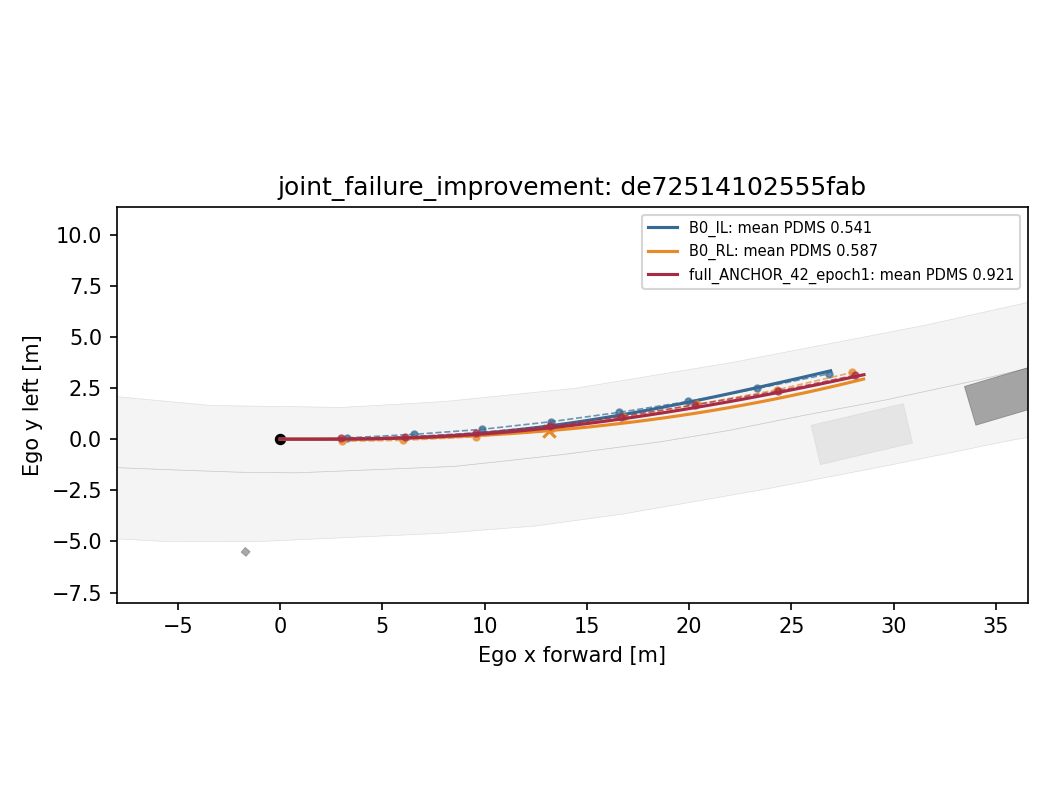
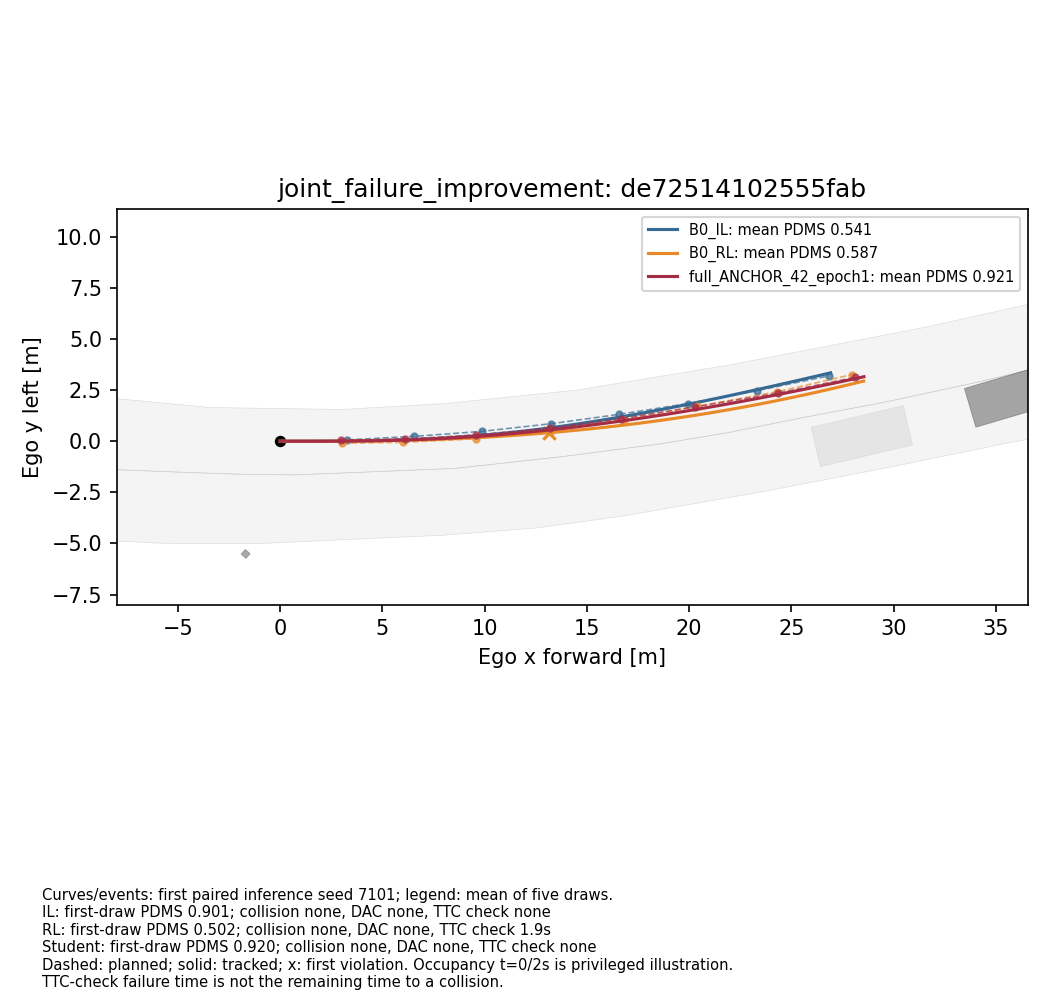
Expose actual event times in case figures and retain first GRPO harm decision

diff --git a/scripts/process_improvement/plot_cases.py b/scripts/process_improvement/plot_cases.py
@@ -3,6 +3,7 @@ import sys
 from pathlib import Path
 sys.path.insert(0,str(Path(__file__).resolve().parents[2]))
 import argparse
+import time
 import numpy as np
 from scripts.process_improvement.common import *
 from scripts.process_improvement.analyze import predictions
@@ -23,7 +24,8 @@ def main():
            ('teacher_success_student_failure',(rm>=.8)&(nm<=.01),nm-rm,False),
            ('joint_failure_improvement',(im<=.6)&(rm<=.6)&(nm>np.maximum(im,rm)),nm-np.maximum(im,rm),True)]
     directory=REPORTS/'figures/cases'/a.method;directory.mkdir(parents=True,exist_ok=True)
-    records=[];used=set();scorer=Scoring()
+    records=[];used=set();scorer=Scoring();began=time.time()
+    budget=dict(physical_scores=0,logical_scores=0,reference_simulations=0,cpu_scoring_seconds=0.)
     for rule,mask,value,descending in rules:
         possible=[i for i in range(len(rows)) if mask[i] and i not in used]
         if not possible:continue
@@ -31,7 +33,7 @@ def main():
         used.add(i);row=rows[i];cache=load_cache(row['metric_cache_path']);ego=cache.ego_state.rear_axle
         rotation=np.array([[np.cos(ego.heading),-np.sin(ego.heading)],[np.sin(ego.heading),np.cos(ego.heading)]])
         def local(points):return (np.asarray(points)-np.array([ego.x,ego.y]))@rotation
-        fig,ax=plt.subplots(figsize=(7,5.4))
+        fig,ax=plt.subplots(figsize=(7,6.7))
         def polygon(geometry,**kwargs):
             if hasattr(geometry,'geoms'):
                 for part in geometry.geoms:polygon(part,**kwargs)
@@ -46,7 +48,12 @@ def main():
             if name in cases:continue
             with np.load(ROOT/'evaluation'/a.split/name/'scenes'/f"{row['token']}.npz") as data:
                 trajectory=data['trajectories'][0];seed=int(data['seeds'][0]);mean=float(data['scores'][:,-1].mean())
-            details=scorer.batch(cache,trajectory[None]);simulated=details['simulated_states'][0]
+                original_scores=data['scores'][0].copy()
+            tick=time.process_time();details=scorer.batch(cache,trajectory[None]);simulated=details['simulated_states'][0]
+            budget['cpu_scoring_seconds']+=time.process_time()-tick
+            for field in ['physical_scores','logical_scores','reference_simulations']:budget[field]+=1
+            if np.max(np.abs(details['scores'][0]-original_scores))>1e-6:
+                raise ValueError('Case re-scoring changed a completed evaluation label')
             xy=local(simulated[:,:2]);all_xy.append(xy)
             ax.plot(trajectory[:,0],trajectory[:,1],'o--',ms=3,lw=.8,color=color,alpha=.7)
             ax.plot(xy[:,0],xy[:,1],color=color,label=f'{name}: mean PDMS {mean:.3f}')
@@ -60,11 +67,29 @@ def main():
                              prediction_sha256=sha(ROOT/'evaluation'/a.split/name/'scenes'/f"{row['token']}.npz"))
         combined=np.concatenate(all_xy);lo=combined.min(0)-8;hi=combined.max(0)+8
         ax.set(xlim=(lo[0],hi[0]),ylim=(lo[1],hi[1]),xlabel='Ego x forward [m]',ylabel='Ego y left [m]',title=f'{rule}: {row["token"]}')
-        ax.scatter(0,0,color='black',s=20);ax.set_aspect('equal',adjustable='box');ax.legend(fontsize=7);fig.tight_layout()
+        ax.scatter(0,0,color='black',s=20);ax.set_aspect('equal',adjustable='box');ax.legend(fontsize=7)
+        captions=[f'Curves/events: first paired inference seed {seed}; legend: mean of five draws.']
+        for name,case in cases.items():
+            label='IL' if name=='B0_IL' else 'RL' if name=='B0_RL' else 'Student'
+            events=case['events']
+            times=['none' if events[key] is None else f'{events[key]:.1f}s'
+                   for key in ['first_collision_s','first_dac_s','first_ttc_check_failure_s']]
+            captions.append(f"{label}: first-draw PDMS {case['first_seed_PDMS']:.3f}; collision {times[0]}, DAC {times[1]}, TTC check {times[2]}")
+        captions+=['Dashed: planned; solid: tracked; x: first violation. Occupancy t=0/2s is privileged illustration.',
+                   'TTC-check failure time is not the remaining time to a collision.']
+        fig.text(.04,.015,'\n'.join(captions),fontsize=7.1,va='bottom')
+        fig.tight_layout(rect=(0,.19,1,1))
         fig.savefig(directory/f'{rule}.png',dpi=150);plt.close(fig)
         records.append(dict(rule=rule,token=row['token'],log=row['log_name'],cases=cases,
+                            generator_sha256=sha(__file__),protocol_sha256=sha(ROOT/'protocol.yaml'),
                             interpretation='Dashed planned trajectory; solid tracked simulation; x marks first violation. TTC check failure is not remaining collision time. Occupancy at t=0 and t=2s is privileged illustration only.'))
     write(REPORTS/'tables'/f'case_provenance_{a.split}_{a.method}.json',records)
+    # Every regeneration is a real extra CPU scoring cost, even when the
+    # resulting presentation replaces an earlier PNG. Never overwrite receipts.
+    write(ROOT/'diagnostics'/f'case_figures_{a.split}_{a.method}'/str(time.time_ns())/'results.json',
+          dict(status='COMPLETE',budget=budget,seconds=time.time()-began,
+               generator_sha256=sha(__file__),cases=len(records),GPU_work=False,
+               interpretation='Presentation re-scoring only; completed labels checked to 1e-6; not new independent evaluation samples'))
     print('REAL_CASE_FIGURES',a.method,len(records),flush=True)
 
 

diff --git a/reports/recogdrive_process_improvement_20261020/06_expanded_training.md b/reports/recogdrive_process_improvement_20261020/06_expanded_training.md
@@ -85,3 +85,5 @@ warm 起点两个学习率均已完成 812 更新/207,872 次物理评分和 5,3
 IL 初始化 seed42 实际完成977更新、31,264场景曝光、250,112候选评分；完整 dev 1,696×5 的 PDMS=0.931694。相对 IL，G=0.016507，95% CI [0.004910,0.028740]，M_plus=0.026127，M_minus=0.009619 [0.005633,0.015142]；相对T0，G=-0.017933 [-0.024853,-0.012743]。NC变化=-0.000708 [-0.002623,0.000450]，不满足0.001安全非劣标准；稳定高分场景均值变零的点估计为0，但区间上界0.003402，不能宣称无风险。
 
 这是尚在运行的三训练种子对照中的第一条、第一端点，不用于挑选模型或停止；cal-confirm伤害边界检查独立执行。没有将其与曝光量不同的OPD端点作同预算胜负判断。结构化数值及实际八rank成本见 `tables/R1_IL_seed42_step977_interim.json`。
+
+该首端点的独立 cal-confirm 伤害审计为 CONTINUE：G=0.007217，95% CI [-0.009575,0.019750]；NC/DAC/TTC变化均未触发预注册伤害边界。区间跨零，不能据此确认校准集正收益。实际审计记录见 `tables/R1_IL_seed42_harm_audit_977.json`；高预算恢复仍遵守原host/world和独立低预算端点优先顺序。

diff --git a/reports/recogdrive_process_improvement_20261020/04_baseline_results.md b/reports/recogdrive_process_improvement_20261020/04_baseline_results.md
@@ -82,3 +82,5 @@ Anchor 一轮减少了明显退化场景的比例（配对差 -0.008255，95% CI
 | 共同低分后改善 `de72514102555fab` | 0.540572 | 0.587457 | 0.922801 | 教师首次 TTC 检查失败 1.9s，学生无该事件；该时刻不是剩余碰撞时间 |
 
 对应地图、原始规划轨迹、跟踪仿真轨迹及事件标记在 `figures/cases/full_OPD_42_epoch1/`，Anchor 的相同规则案例在 `figures/cases/full_ANCHOR_42_epoch1/`。原始数据哈希与事件日志见各自 `tables/case_provenance_dev_*.json`。图示 t=0/t=2s 对象占用只作 privileged 解释，不进入学生输入或目标选择。
+
+11张已选案例图已补充图内事件时刻、单种子分数及五次均值的区别；案例选择、轨迹、评分和时刻与此前提交逐字段一致。此次仅展示重绘，31次额外真实CPU评分另计，不当成新增独立评价；核验记录为 `tables/case_event_display_validation.json`。
